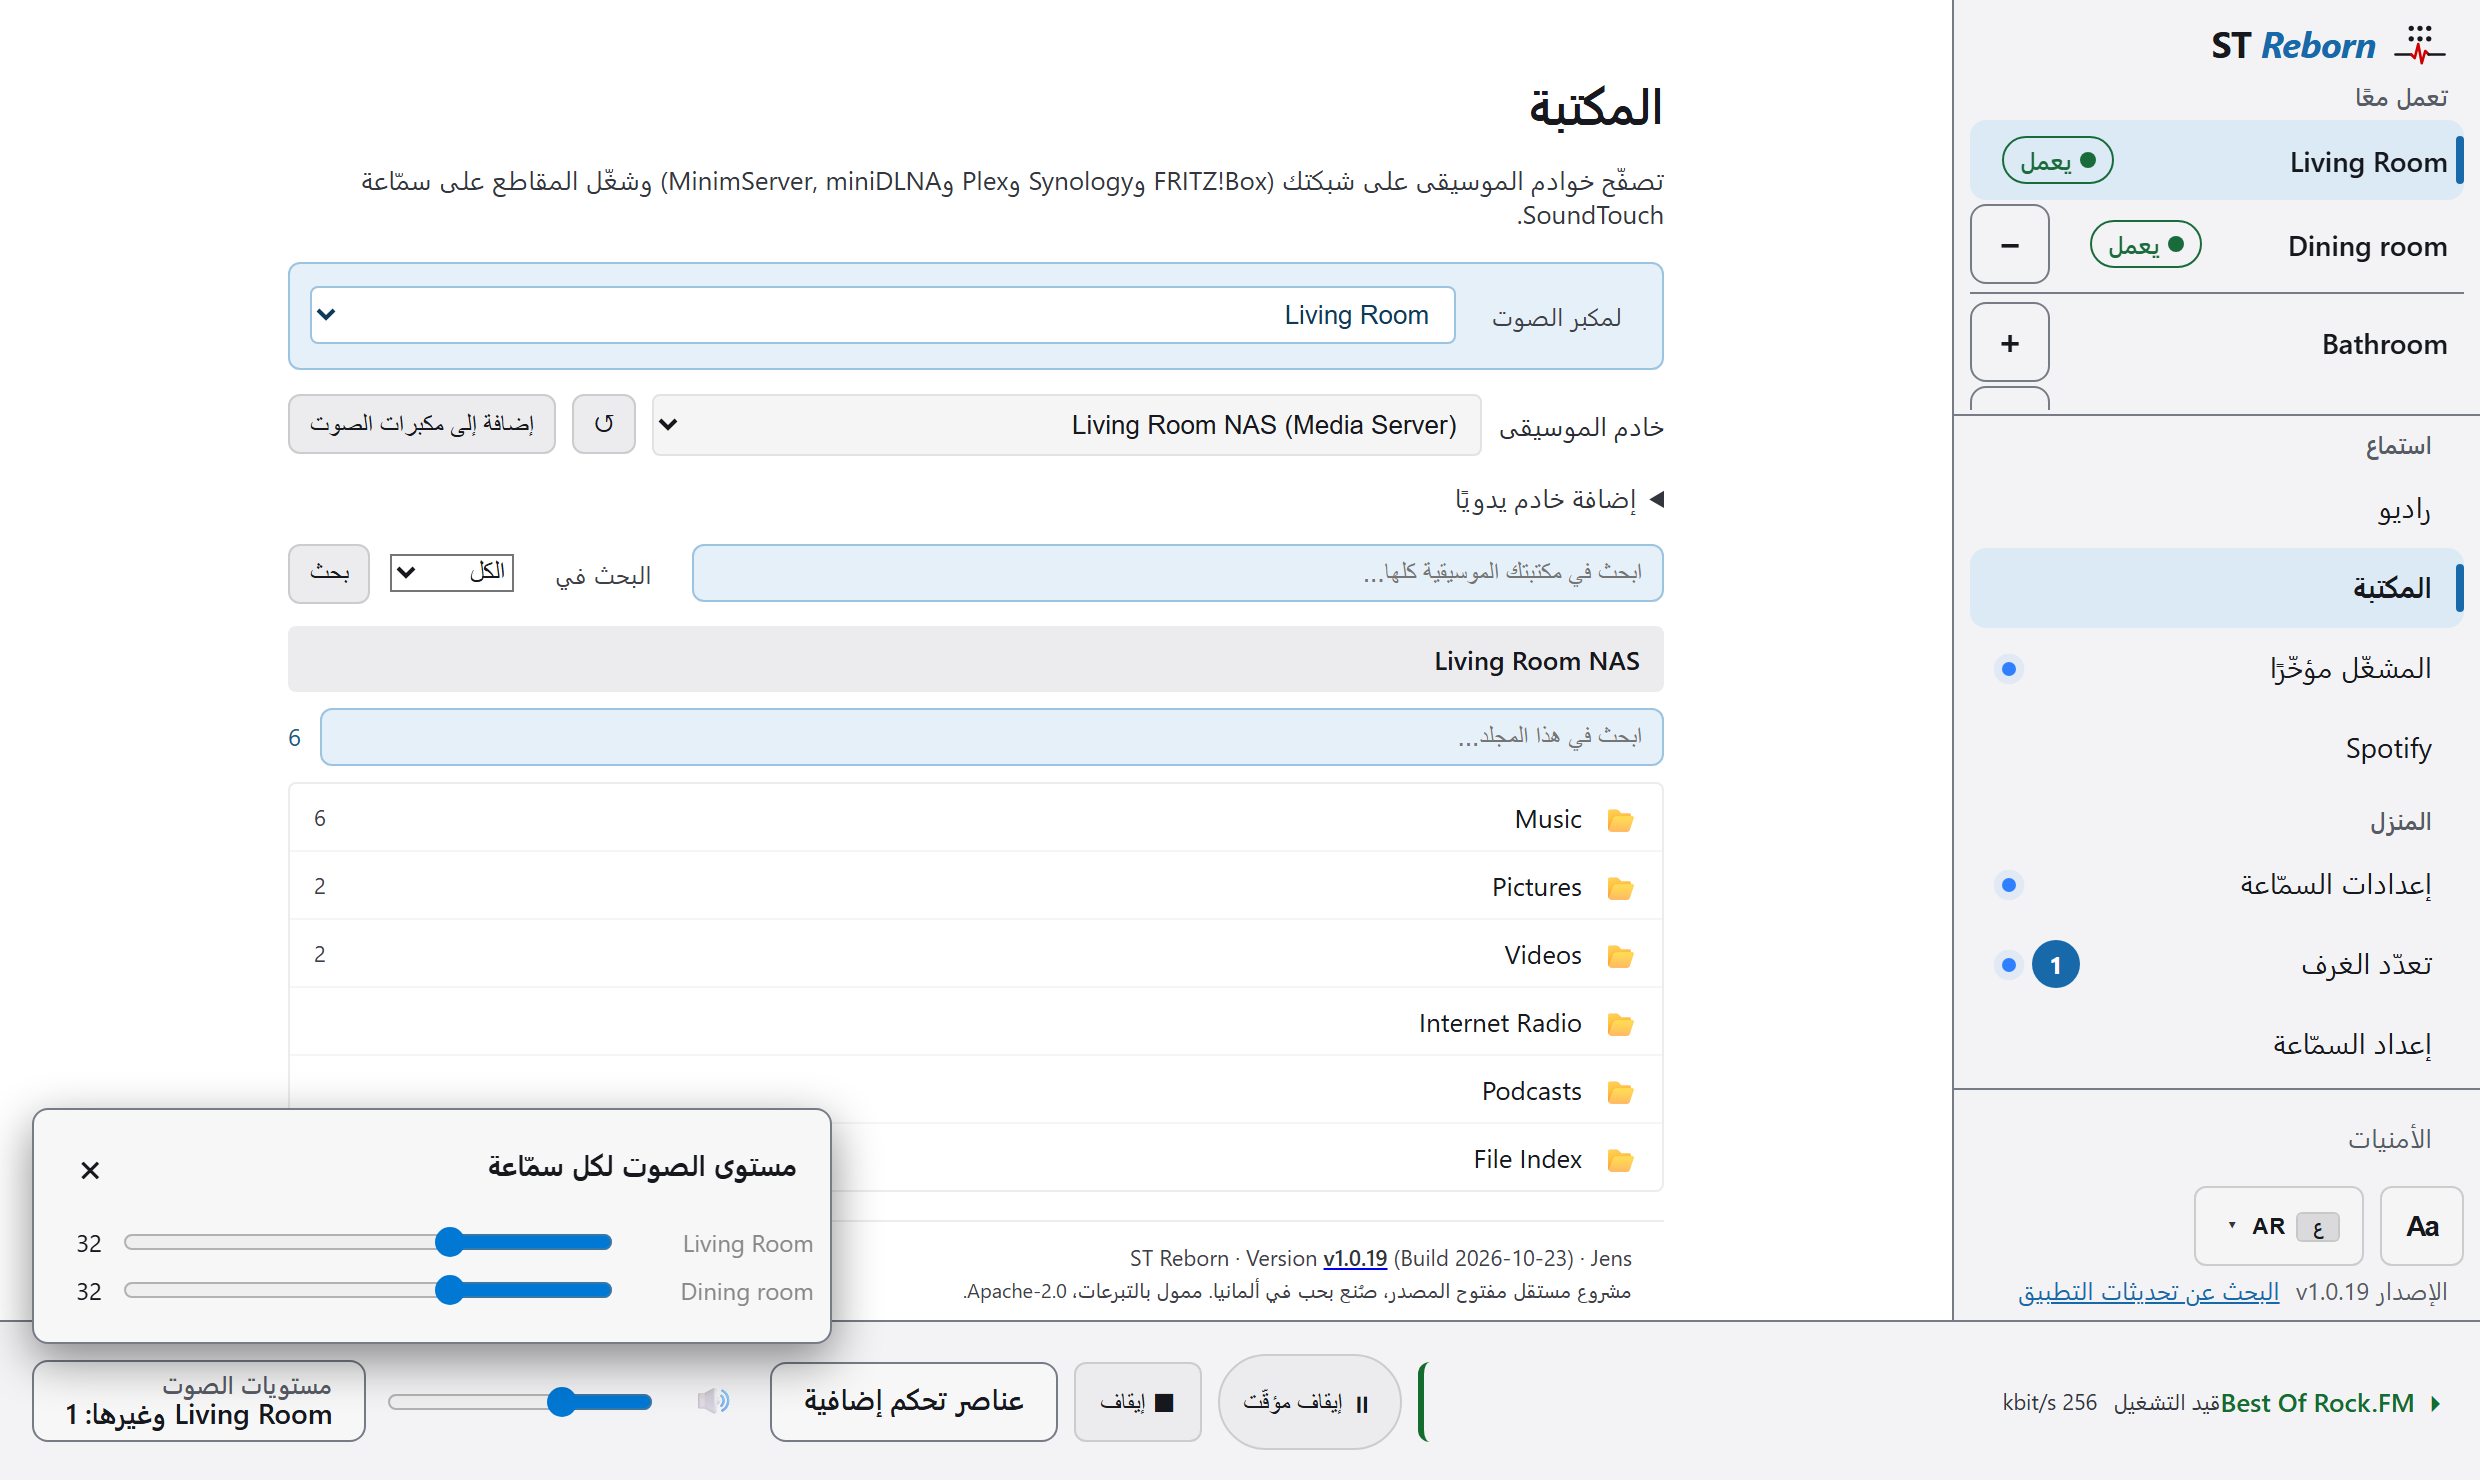
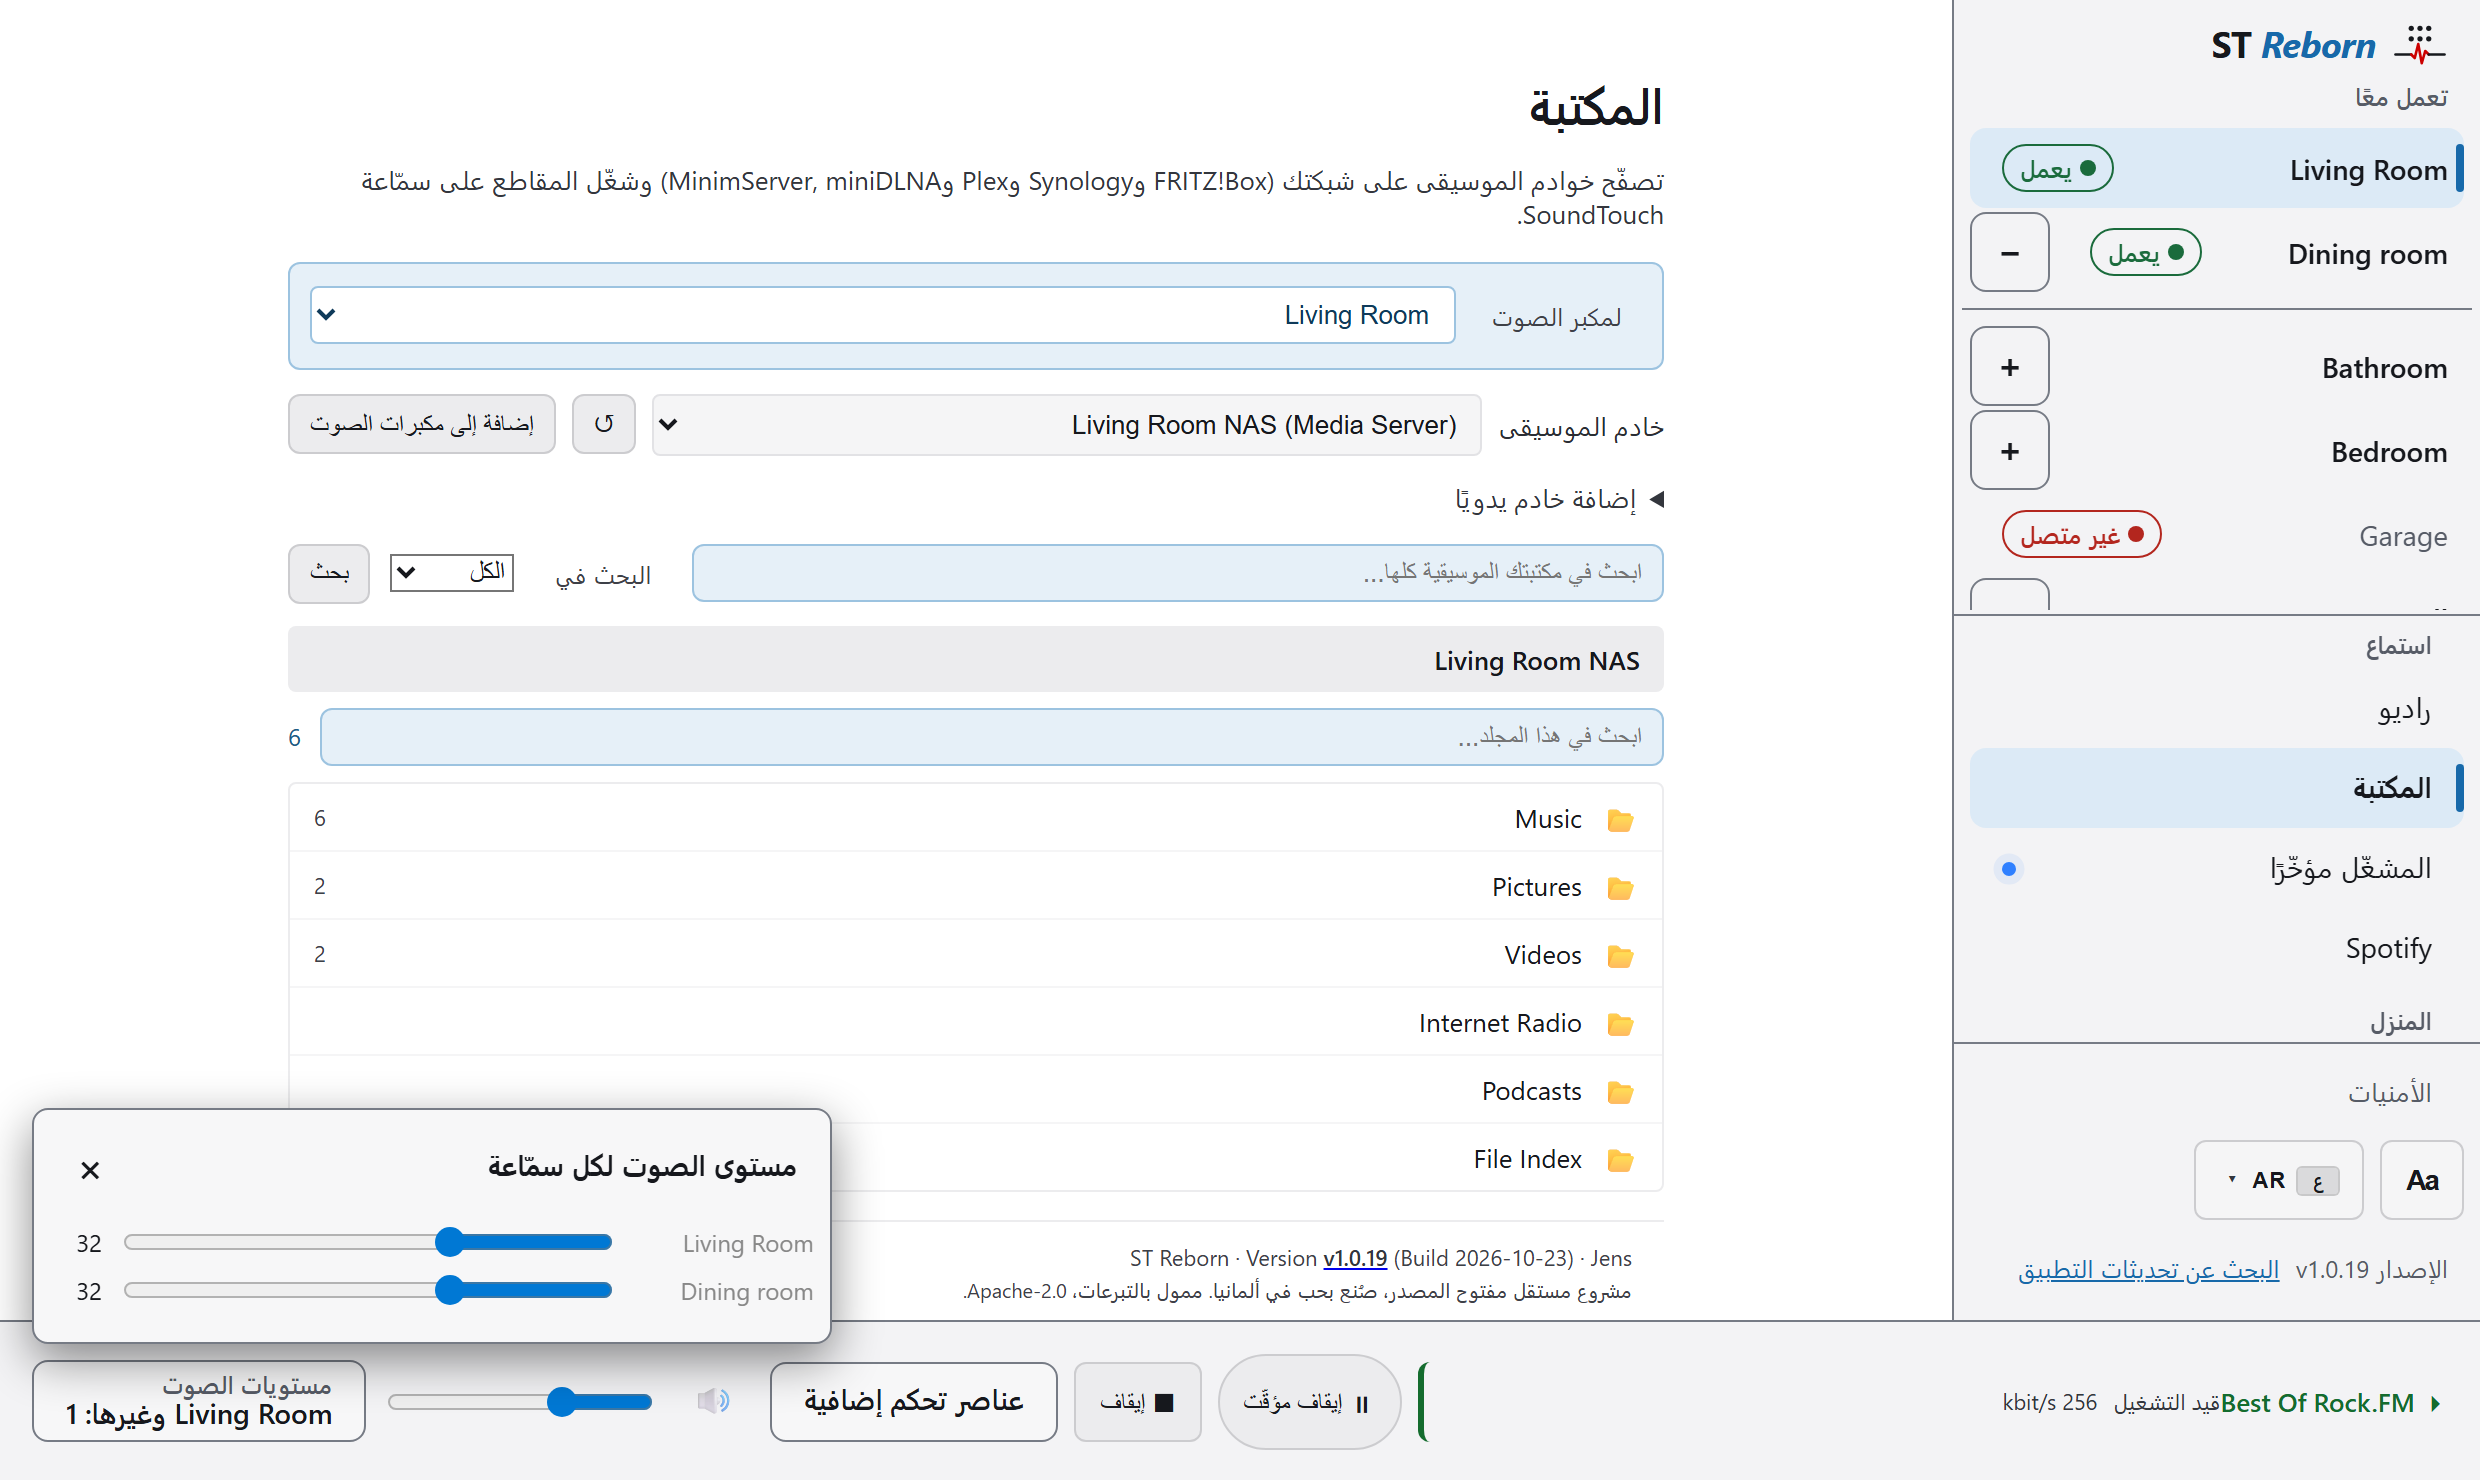
fix(app): the UI 2.0 preview sidebar shows at least three other speakers and draws the full focus ring
- The others list keeps three whole rows plus half of the next (cut so a
  "+" never shows without its name); the navigation entries scroll in
  their own box first. The nav's flex-shrink was a token 0.001, which
  hands out only 0.1% of a shortfall, so it is 1 now. In a window too
  short for that the floor is held back so the entries and the bottom
  area stay on screen; a ResizeObserver recomputes it.
- Both speaker lists get 4px of inner padding (content-box, so the row
  counts stay), so a focused row's ring is no longer clipped.
- The group volume and speaker volume sliders and the "Check for app
  updates" link get the 40px target.
- ui2-check asserts three whole other rows at 1240x740, the bottom area
  on screen, every nav entry reachable, and the focus ring's room.
- The dark shot scrolls to the offline and the Bose original rows;
  ui2 screenshots regenerated (en, de, ar).

diff --git a/desktop-app/frontend/src/shell2/shell2.css b/desktop-app/frontend/src/shell2/shell2.css
@@ -371,9 +371,11 @@ html.ui2 .ui2-side-top {
    bottom area stays outside every scroll box, so its menus are never clipped. */
 html.ui2 .ui2-side-nav {
   display: flex;
-  /* Shrinks only once the speaker section is at its floor (a minimal factor,
-     not 0, so a window too short for both still keeps the entries in it). */
-  flex: 1 0.001 auto;
+  /* Gives up room after the speaker section (flex-shrink 1 against its 100),
+     which in practice means once that section is at its floor. A factor of 1,
+     not a token one: below a total of 1 the browser hands out only that
+     fraction of the shortfall, and the sidebar overflowed the player. */
+  flex: 1 1 auto;
   flex-direction: column;
   min-height: 0;
 }
@@ -420,18 +422,19 @@ html.ui2 .ui2-room-badges {
    lists are capped, so with eight or more speakers (or a big group) the
    navigation below never scrolls away. */
 /* How the height is shared: the speaker section gives up its room first
-   (flex-shrink 100 against the entries' 0.001), down to a floor of the pinned
-   group plus a row and a quarter of the others (mount.js measures it and sets it as
-   the section's min-height), which is where the others scroll on their own.
-   Only in a window too short even for that floor do the entries scroll, as
-   the last resort; the speaker list scrolling never moves them. */
+   (flex-shrink 100 against the entries' 1), down to a floor of the pinned
+   group plus three and a half rows of the others (mount.js measures it and
+   sets it as the section's min-height), which is where the others scroll on
+   their own. Below that the navigation entries scroll in their own box
+   (.ui2-side-scroll); the small entries at the bottom never move, and the
+   speaker list scrolling never moves anything. */
 html.ui2 .ui2-spk {
   display: flex;
   flex: 0 100 auto;
   flex-direction: column;
   min-height: 0;
   overflow: hidden;
-  padding: 2px 8px;
+  padding: 2px 4px;
   border-bottom: 1px solid var(--u-border);
 }
 html.ui2 .ui2-spk-lists {
@@ -450,7 +453,7 @@ html.ui2 .ui2-spk-pinned {
   border-bottom: 1px solid var(--u-border);
 }
 html.ui2 .ui2-spk-subhead {
-  padding: 0 8px 4px;
+  padding: 0 12px 4px;
   color: var(--u-muted);
   font-size: 12px;
   font-weight: 600;
@@ -462,6 +465,16 @@ html.ui2 .ui2-spk-list {
   margin: 0;
   padding: 0;
   list-style: none;
+}
+/* Both lists scroll, and a scroll box clips what it holds: the 4px of padding
+   inside them is the room the focus ring (outline plus its 2px offset) needs
+   on every side of a row, the top and bottom rows included. content-box keeps
+   the max-height a number of rows. */
+html.ui2 .ui2-spk-pinned .ui2-spk-list,
+html.ui2 .ui2-spk-scroll {
+  box-sizing: content-box;
+  padding: 4px;
+  scroll-padding-block: 4px;
 }
 html.ui2 .ui2-spk-pinned .ui2-spk-list {
   min-height: 0;
@@ -544,7 +557,7 @@ html.ui2 .ui2-spk-act {
 html.ui2 .ui2-spk-act:hover { background: var(--u-surface); }
 html.ui2 .ui2-spk-act.pending { cursor: progress; border-style: dotted; color: var(--u-muted); }
 html.ui2 .ui2-spk-note,
-html.ui2 .ui2-spk-empty { margin: 4px 8px; color: var(--u-muted); font-size: 12px; }
+html.ui2 .ui2-spk-empty { margin: 4px 12px; color: var(--u-muted); font-size: 12px; }
 
 /* A short window or a larger text size: fewer rows before the lists scroll. */
 @media (height <= 700px) {
@@ -757,6 +770,10 @@ html.ui2 .ui2-player-groupvol .group-vol-row {
 }
 html.ui2 .ui2-player-groupvol .group-vol-row input[type=range] { flex: 1 1 auto; width: 100%; min-width: 0; }
 html.ui2 .ui2-player-groupvol .group-vol-row input[type=range] { min-width: 96px; }
+/* The sliders take the shell's 40px target as their hit area, like every other
+   control in the player; the track keeps its look. */
+html.ui2 .ui2-player-groupvol .group-vol-row input[type=range],
+html.ui2 .ui2-player .volume-control input[type=range] { min-height: var(--u-target); }
 /* The slider carries its name (aria-label "Group volume") and the Levels
    button next to it says the group; the visible caption gives its room to the
    slider. */
@@ -803,6 +820,7 @@ html.ui2 .worldmap-invite { bottom: calc(var(--u-player-min) + 24px); }
 html.ui2 .ui2-side-version .app-update-banner.app-update-quiet {
   display: flex;
   flex-wrap: wrap;
+  align-items: center;
   gap: 4px 8px;
   max-width: none;
   margin: 0;
@@ -814,4 +832,11 @@ html.ui2 .ui2-side-version .app-update-banner.app-update-quiet {
 }
 html.ui2 .ui2-side-version .app-update-banner.app-update-quiet.hidden { display: none; }
 html.ui2 .ui2-side-version .app-update-quiet .footer-link { color: var(--u-accent); font-size: 12px; }
+/* Small text, full-size target: the link and any button in the line take the
+   40px the rest of the sidebar uses. */
+html.ui2 .ui2-side-version .app-update-quiet :is(.footer-link, button) {
+  display: inline-flex;
+  align-items: center;
+  min-height: var(--u-target);
+}
 html.ui2 .ui2-side-version .app-update-quiet-note { color: var(--u-muted); }

diff --git a/desktop-app/frontend/src/shell2/mount.js b/desktop-app/frontend/src/shell2/mount.js
@@ -491,28 +491,68 @@ function paintSpeakers(force) {
 }
 
 // holdSpeakerFloor sets how far the speaker section may shrink when the
-// sidebar is short: the pinned group plus a row and a quarter of the others (or
-// all of them when there are fewer). Measured,
-// because a row is one line or two depending on its name and pill, and the
-// text size zooms all of it. The entries below give up their room only after
-// that (shell2.css).
+// sidebar is short: the pinned group down to two and a half rows (its list
+// scrolls below that) and the others down to three rows and half of the
+// fourth, or all of them when there are fewer. Measured, because a row is one
+// line or two depending on its name and pill, and the text size zooms all of
+// it. The floor is cut at whole rows plus half the next one, so the cut row
+// shows a piece of its name next to a piece of its "+", never a bare button
+// edge. The navigation entries give up their room only after that
+// (shell2.css).
+//
+// In a window too short for that (a large text size, a low window) the floor
+// is held back so two and a half navigation entries and everything below them
+// stay on screen; the others then keep at least one row and a half. The
+// sidebar's own size is watched, so a resize or a text size change sets the
+// floor again.
+const OTHERS_FLOOR_ROWS = 3;
+const NAV_RESERVE_ENTRIES = 2.5;
+let floorWatch = null;
+let floorWatched = null;
 function holdSpeakerFloor(lists) {
   const section = lists.closest('.ui2-spk');
   if (!section) return;
+  const side = section.parentElement;
+  if (side && side !== floorWatched && typeof ResizeObserver === 'function') {
+    if (floorWatch) floorWatch.disconnect();
+    floorWatch = new ResizeObserver(() => {
+      const l = byId('ui2SpkLists');
+      if (l) holdSpeakerFloor(l);
+    });
+    floorWatch.observe(side);
+    floorWatched = side;
+  }
   const pinned = lists.querySelector('.ui2-spk-pinned');
   const pinnedList = pinned && pinned.querySelector('.ui2-spk-list');
   const scroll = lists.querySelector('.ui2-spk-scroll');
-  const row = lists.querySelector('.ui2-spk-row');
-  const rowH = row ? row.offsetHeight + 2 : 0;
-  const capped = (h, n) => (rowH ? Math.min(h, rowH * n) : h);
-  // The pinned group down to two and a half rows (its list scrolls below
-  // that), the others down to a row and a quarter: the cut row says there is
-// more.
-  const pinnedH = pinned ? pinned.offsetHeight - (pinnedList ? pinnedList.offsetHeight - capped(pinnedList.scrollHeight, 2.5) : 0) : 0;
-  const others = scroll ? capped(scroll.scrollHeight, 1.25) : 0;
-  const pad = section.offsetHeight - lists.offsetHeight;
-  const floor = pinnedH + others + Math.max(0, pad);
+  const pinnedH = pinned
+    ? pinned.offsetHeight - (pinnedList ? pinnedList.offsetHeight - rowsHeight(pinnedList, 2) : 0)
+    : 0;
+  const others = scroll ? rowsHeight(scroll, OTHERS_FLOOR_ROWS) : 0;
+  const pad = Math.max(0, section.offsetHeight - lists.offsetHeight);
+  let floor = pinnedH + others + pad;
+  if (side) {
+    const nav = side.querySelector('.ui2-side-nav');
+    const entry = side.querySelector('.ui2-side-scroll .ui2-nav-item');
+    const small = side.querySelector('.ui2-side-small');
+    let rest = (entry ? entry.offsetHeight * NAV_RESERVE_ENTRIES : 0) + (small ? small.offsetHeight : 0);
+    for (const el of side.children) if (el !== section && el !== nav) rest += el.offsetHeight;
+    const least = pinnedH + (scroll ? rowsHeight(scroll, 1) : 0) + pad;
+    floor = Math.min(floor, Math.max(least, side.clientHeight - rest));
+  }
   section.style.minHeight = floor > 0 ? `${Math.ceil(floor)}px` : '';
+}
+
+// rowsHeight is the height a scrolling list needs to show its first n rows
+// whole and half of the next, its own padding included; the full height when
+// it holds no more than that.
+function rowsHeight(list, n) {
+  const rows = [...list.querySelectorAll('.ui2-spk-row')];
+  const full = list.scrollHeight + (list.offsetHeight - list.clientHeight);
+  if (rows.length <= n) return full;
+  const top = list.getBoundingClientRect().top - list.scrollTop;
+  const next = rows[n].getBoundingClientRect();
+  return Math.min(full, next.top - top + next.height / 2);
 }
 
 // mirrorShellBadges copies the counts the tab bar shows onto the sidebar:
